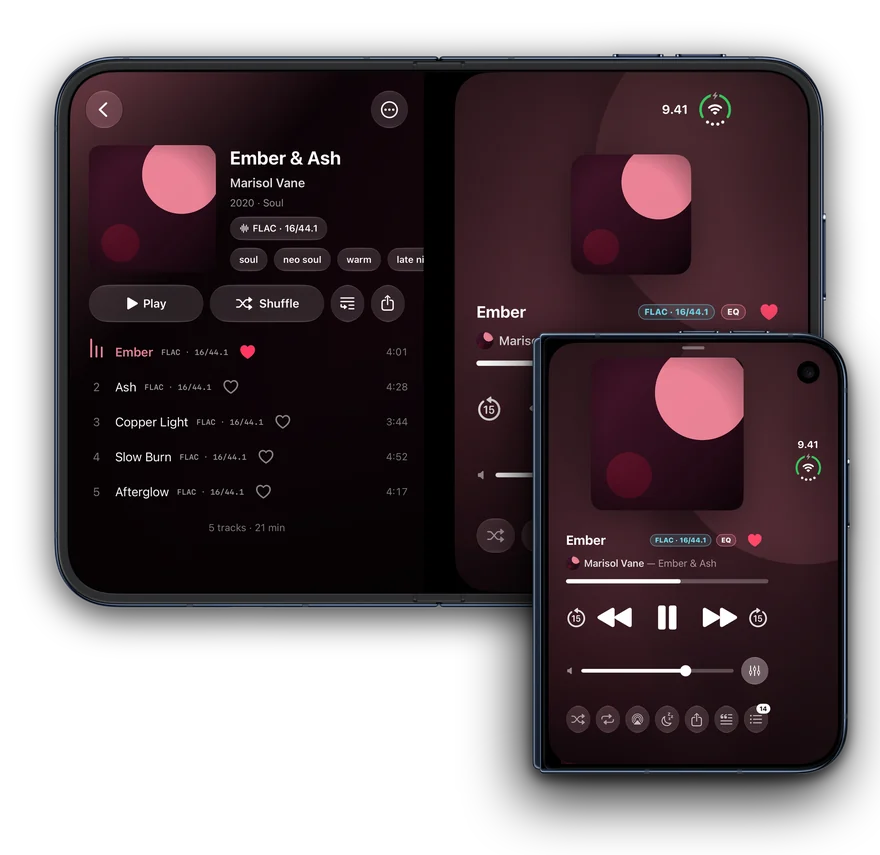
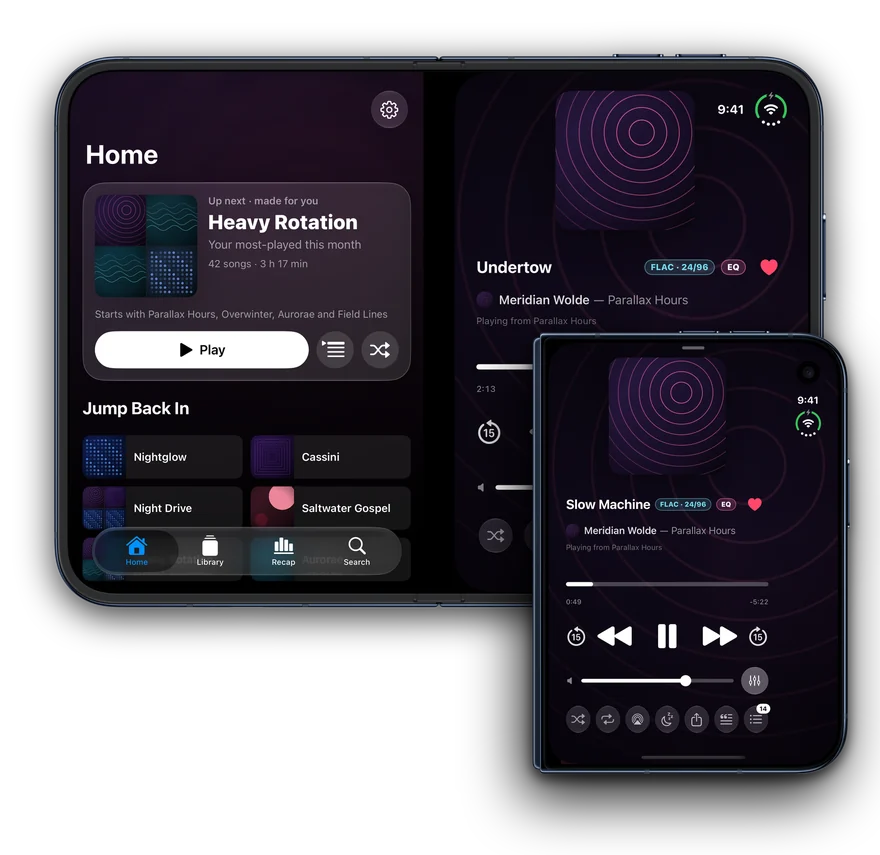
Show Flaccy's iPhone Duo remaster on midgarcorp.cc/flaccy: the picture of both displays is shot from the new build (Home beside Now Playing with the larger cover, the outer display's player in front), and the Duo feature and FAQ say what each pose does: library beside Now Playing once music plays, p

diff --git a/src/data/duo.ts b/src/data/duo.ts
@@ -14,7 +14,7 @@ export interface DuoCombo {
 }
 
 /// Bump when a combo image is regenerated so browsers refetch the stable path.
-const DUO_REV = '3';
+const DUO_REV = '4';
 
 const entries = manifest as Record<string, DuoEntry>;
 
